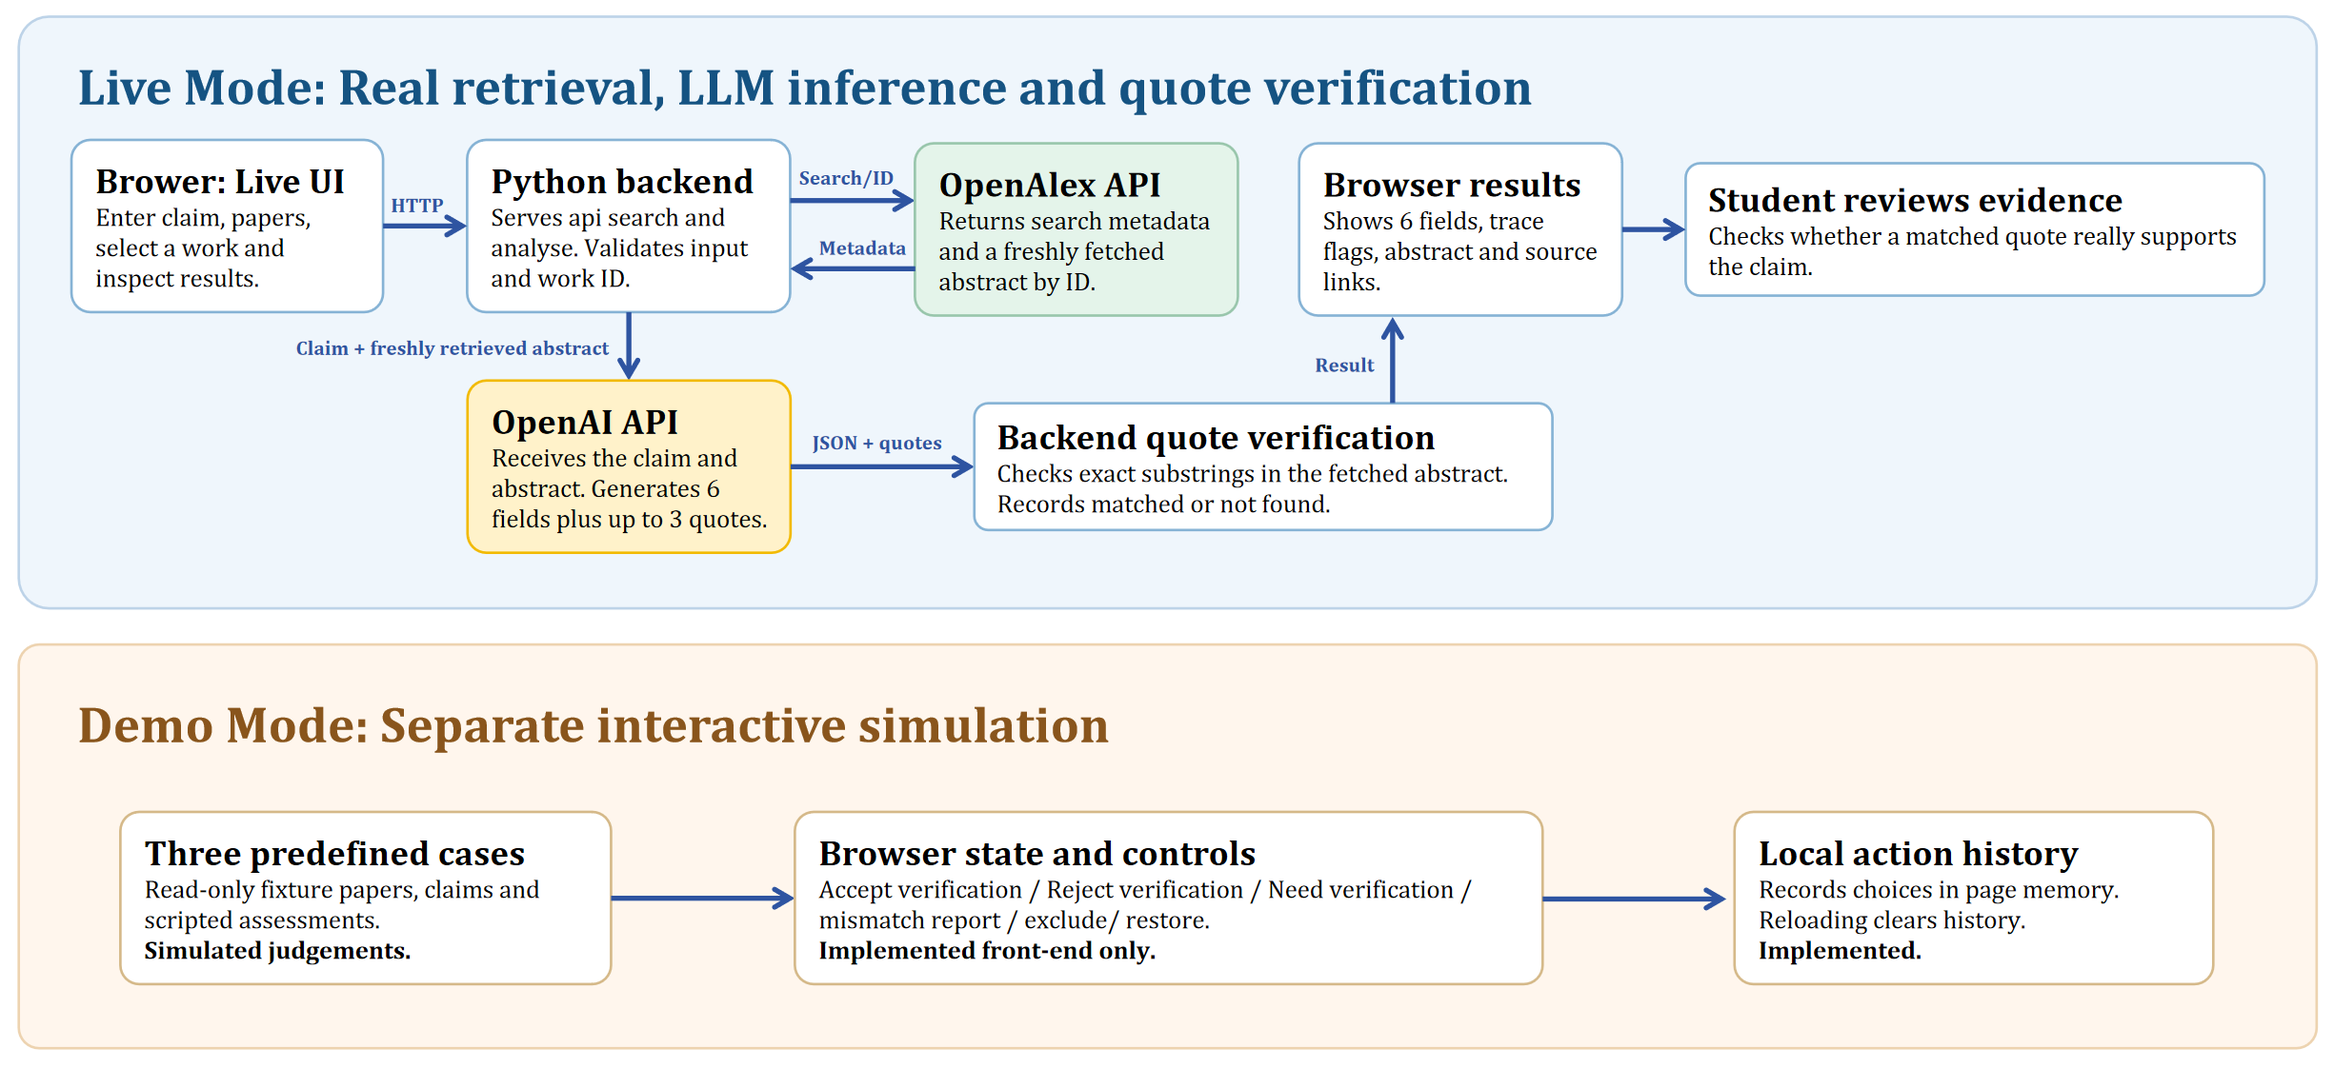
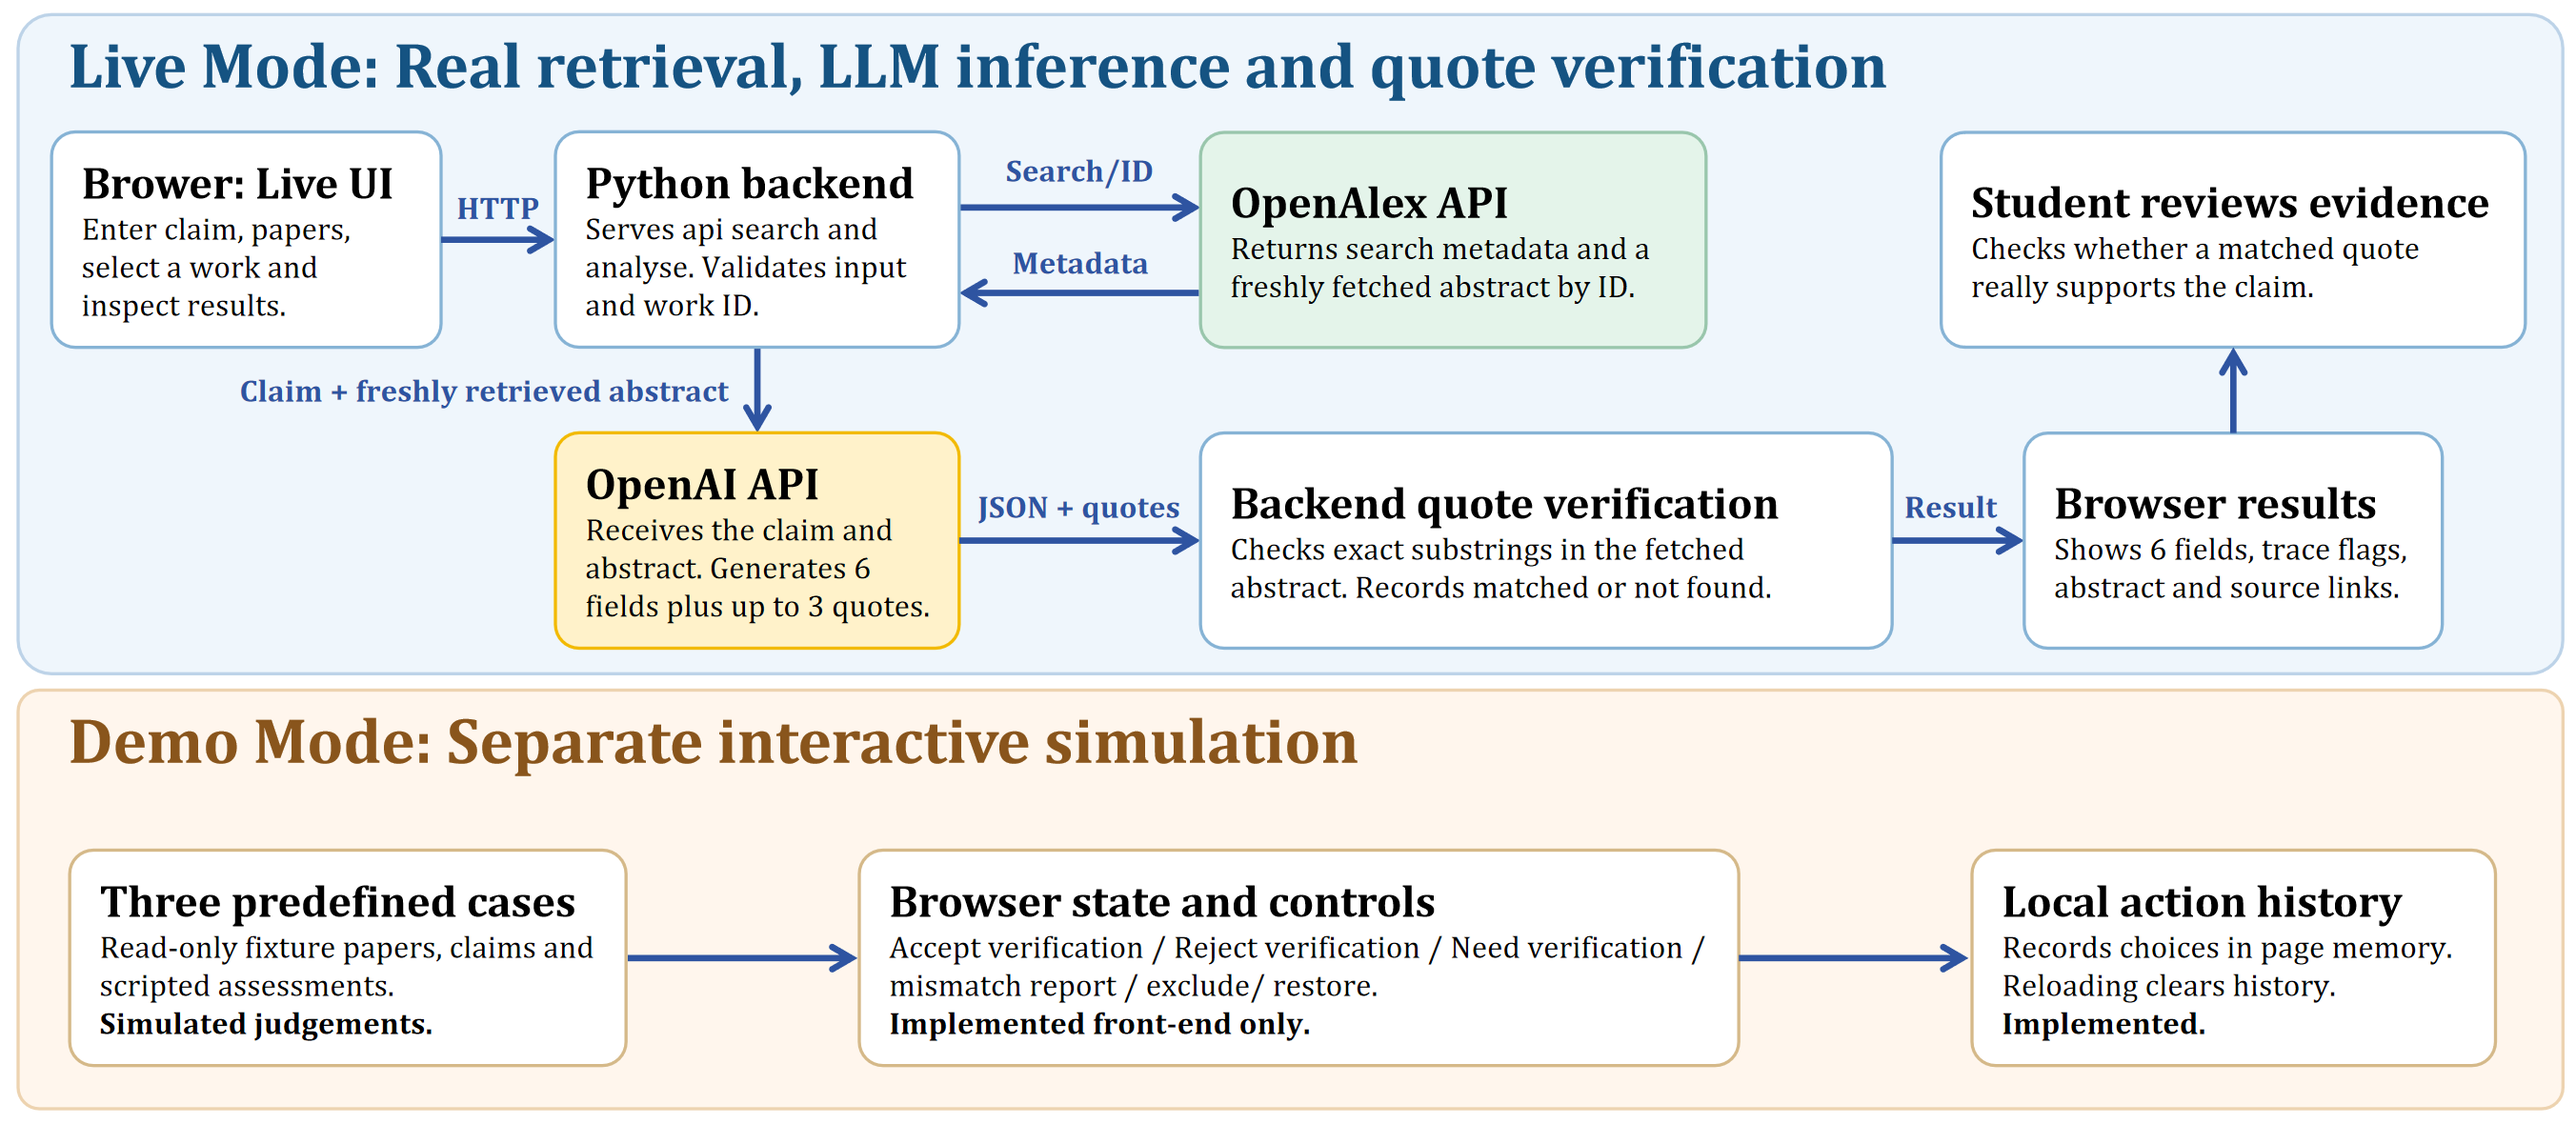
Refine architecture and demo storyboard figures
git rebase --continue# Conflicts:

diff --git a/evidence/DEVELOPMENT_RECORD_V07.md b/evidence/DEVELOPMENT_RECORD_V07.md
@@ -8,7 +8,8 @@ This file distinguishes actual student-reported tests from design illustrations 
 | V0.5 | Python backend, real OpenAlex search and OpenAI Chat Completions abstract analysis | User reported live search and six LLM fields returned. API debugging revealed a misconfigured one-character key and was corrected. |
 | V0.6 | Instructions revised to distinguish claim scope, topical relevance and appropriate reliance | User shared general and absolute-claim regression outputs; verdicts were `potential support` and `potential contradiction`. These outputs do not prove better accuracy. |
 | V0.7 | Backend re-fetches OpenAlex work by ID, requests up to three literal quotes, checks exact substring presence, returns trace statuses | User reported 13/13 offline unit tests passed, live LLM analysis displayed all six fields and 3/3 quotations matched. Student also supplied the quotation texts and model result for Cao et al. (2024). |
-| Documentation update | Current-system architecture diagram, three storyboards, and browser screenshots | The student opened and checked the PNG diagrams and storyboards, and captured three screenshots from the locally running V0.7 system. |
+| Documentation update | Current-system architecture diagram, three storyboards, and browser screenshots | The student opened and checked the SVG diagrams and storyboards, and captured three screenshots from the locally running V0.7 system. |
+| Figure revision (Nov 2026) | Redrew the current system architecture and Demo feedback/recovery figures as PNG files | Improved the layout and corrected the Demo storyboard's user-action description. |
 
 ## User-observed V0.7 trace excerpts (Cao et al., 2024)
 
@@ -33,4 +34,4 @@ The `potential support` output is qualified: *appropriate reliance* need not mea
 
 ## Authorship and AI assistance
 
-ChatGPT assisted with project code, tests, UI, diagram/storyboard drafts and writing. The student chose the research direction, ran Windows tests, reported model outputs and evaluated them against source evidence. Record additional personal revisions accurately; do not present AI-generated code or illustrations as entirely independent student work.
+ChatGPT helped with the code, tests, UI, diagrams, storyboards and writing drafts. I chose the research direction, configured the APIs, ran the tests and reviewed the results. I also checked the quotations against the original abstracts, without treating a successful match as proof of the claim. Later, I revised the report and redrew the diagrams and storyboards to improve their clarity and correct errors.

diff --git a/README.md b/README.md
@@ -1,5 +1,7 @@
 # Academic Evidence Assistant - V0.7 (evidence trace development candidate)
 
+**README prose word count: 1,215 words**
+
 **Status (student-reported):** V0.7 passed 13 offline unit tests on Windows, and real OpenAlex + OpenAI analysis displayed six model fields and three literal quotation matches for a Cao et al. (2024) abstract. This is a single successful live test, NOT a systematic accuracy evaluation. **Three real browser screenshots have been captured and saved in `evidence/screenshots/`.**
 
 **Project:** University of Birmingham, Intelligent Interactive Systems A2.
@@ -117,5 +119,3 @@ Keep the actual outputs, screenshots if useful, terminal test command/results, a
 - [Live academic search](evidence/screenshots/01_live_search.png)
 - [Live LLM analysis](evidence/screenshots/02_llm_analysis.png)
 - [Evidence Trace](evidence/screenshots/03_evidence_trace.png)
-
-**README prose word count: 1,215 words**
